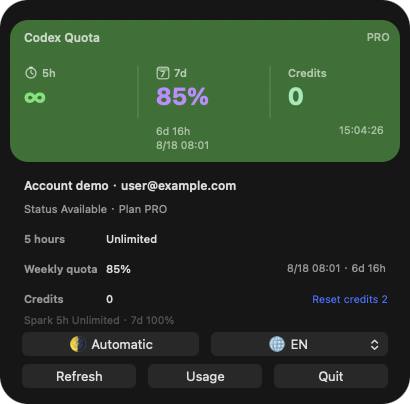
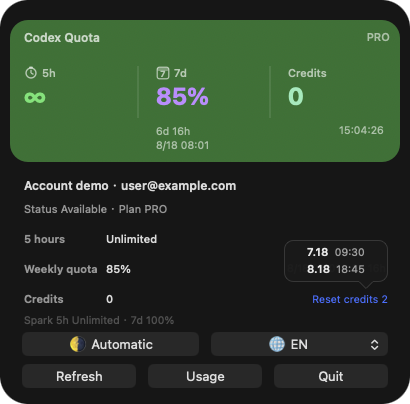
Simplify reset-credit expiration display

Changed region(s): [[0.7024, 0.5941, 0.9659, 0.6832]]

diff --git a/codex-balance/Sources/CodexBalance/main.swift b/codex-balance/Sources/CodexBalance/main.swift
@@ -2156,10 +2156,34 @@ final class ThemePanelView: NSView {
 }
 
 final class ResetCreditsBubbleView: NSView {
+    private struct LineParts {
+        let expirationDate: String
+        let expirationTime: String?
+    }
+
+    private static let minimumWidth: CGFloat = 104
+    private static let maximumWidth: CGFloat = 160
+    private static let horizontalTextPadding: CGFloat = 24
+
     private let summary: CodexUsageSummary
     private let panelLight: Bool
     private let arrowTipX: CGFloat
     private let arrowHeight: CGFloat = 7
+
+    fileprivate static func preferredWidth(for summary: CodexUsageSummary) -> CGFloat {
+        let dateFont = NSFont.systemFont(ofSize: 11, weight: .semibold)
+        let timeFont = NSFont.systemFont(ofSize: 10.5, weight: .regular)
+        let widestLine = lineParts(for: summary)
+            .map { line in
+                let dateWidth = (line.expirationDate as NSString).size(withAttributes: [.font: dateFont]).width
+                let timeWidth = line.expirationTime.map {
+                    (("  " + $0) as NSString).size(withAttributes: [.font: timeFont]).width
+                } ?? 0
+                return ceil(dateWidth + timeWidth)
+            }
+            .max() ?? 0
+        return min(maximumWidth, max(minimumWidth, widestLine + horizontalTextPadding))
+    }
 
     init(frame frameRect: NSRect, summary: CodexUsageSummary, panelLight: Bool, arrowTipX: CGFloat) {
         self.summary = summary
@@ -2228,35 +2252,79 @@ final class ResetCreditsBubbleView: NSView {
     }
 
     private func addDateLines() {
-        let credits = summary.resetCredits.isEmpty ? [] : Array(summary.resetCredits.prefix(5))
-        let textColor = panelLight ? NSColor(calibratedWhite: 0.16, alpha: 0.82) : NSColor.white.withAlphaComponent(0.88)
-        let lines = credits.isEmpty ? [L10n.shared.t("unknown")] : credits.map { "\(dateText($0.grantedAt)) - \(dateText($0.expiresAt))" }
+        let lines = Self.lineParts(for: summary)
         let lineHeight: CGFloat = 15
         let lineGap: CGFloat = 2
         let bodyHeight = bounds.height - arrowHeight
         let totalLineHeight = CGFloat(lines.count) * lineHeight + CGFloat(max(0, lines.count - 1)) * lineGap
         let firstLineY = arrowHeight + max(0, (bodyHeight - totalLineHeight) / 2)
         for (index, line) in lines.enumerated() {
-            let field = NSTextField(labelWithString: line)
+            let field = NSTextField(labelWithString: "")
             field.frame = NSRect(
                 x: 10,
                 y: firstLineY + CGFloat(lines.count - 1 - index) * (lineHeight + lineGap),
                 width: bounds.width - 20,
                 height: lineHeight
             )
-            field.font = .systemFont(ofSize: 11, weight: .semibold)
-            field.textColor = textColor
+            field.attributedStringValue = Self.attributedLine(line, panelLight: panelLight)
             field.alignment = .center
             field.lineBreakMode = .byTruncatingTail
             addSubview(field)
         }
     }
 
-    private func dateText(_ date: Date?) -> String {
+    private static func lineParts(for summary: CodexUsageSummary) -> [LineParts] {
+        let credits = summary.resetCredits.isEmpty ? [] : Array(summary.resetCredits.prefix(5))
+        guard !credits.isEmpty else {
+            return [LineParts(expirationDate: L10n.shared.t("unknown"), expirationTime: nil)]
+        }
+        return credits.map {
+            LineParts(
+                expirationDate: dateText($0.expiresAt),
+                expirationTime: timeText($0.expiresAt)
+            )
+        }
+    }
+
+    private static func attributedLine(_ line: LineParts, panelLight: Bool) -> NSAttributedString {
+        let paragraph = NSMutableParagraphStyle()
+        paragraph.alignment = .center
+        let dateColor = panelLight
+            ? NSColor(calibratedWhite: 0.16, alpha: 0.84)
+            : NSColor.white.withAlphaComponent(0.90)
+        let timeColor = panelLight
+            ? NSColor(calibratedWhite: 0.16, alpha: 0.54)
+            : NSColor.white.withAlphaComponent(0.58)
+        let result = NSMutableAttributedString(string: line.expirationDate, attributes: [
+            .font: NSFont.systemFont(ofSize: 11, weight: .semibold),
+            .foregroundColor: dateColor,
+            .paragraphStyle: paragraph
+        ])
+        if let expirationTime = line.expirationTime {
+            result.append(NSAttributedString(string: "  " + expirationTime, attributes: [
+                .font: NSFont.systemFont(ofSize: 10.5, weight: .regular),
+                .foregroundColor: timeColor,
+                .paragraphStyle: paragraph
+            ]))
+        }
+        return result
+    }
+
+    private static func dateText(_ date: Date?) -> String {
+        formatted(date, format: "M.d")
+    }
+
+    private static func timeText(_ date: Date?) -> String? {
+        guard let date else { return nil }
+        return formatted(date, format: "HH:mm")
+    }
+
+    private static func formatted(_ date: Date?, format: String) -> String {
         guard let date else { return L10n.shared.t("unknown") }
         let formatter = DateFormatter()
         formatter.locale = L10n.shared.locale
-        formatter.dateFormat = "M.d"
+        formatter.timeZone = .autoupdatingCurrent
+        formatter.dateFormat = format
         return formatter.string(from: date)
     }
 }
@@ -2644,13 +2712,13 @@ final class CodexPanelViewController: NSViewController {
     }
 
     private func resetCreditsHint() -> String {
-        L10n.shared.effectiveCode.hasPrefix("zh") ? "查看每张重置券的授权日和截止日期" : "Show each reset credit grant and expiration date"
+        L10n.shared.effectiveCode.hasPrefix("zh") ? "查看每张重置券的到期日期和时间" : "Show each reset credit expiration date and time"
     }
 
     private func addResetCreditsBubble(_ root: NSView, summary: CodexUsageSummary, panelLight: Bool, dismiss: @escaping () -> Void) {
         let lineCount = max(1, min(5, summary.resetCredits.count))
         let triggerFrame = NSRect(x: 232, y: 94, width: 156, height: 20)
-        let bubbleWidth: CGFloat = 122
+        let bubbleWidth = ResetCreditsBubbleView.preferredWidth(for: summary)
         let bubbleHeight = 15 + CGFloat(lineCount * 17)
         let bubbleFrame = NSRect(
             x: triggerFrame.maxX - bubbleWidth,
@@ -3860,13 +3928,13 @@ private func readmeSampleSummary() throws -> CodexUsageSummary {
                 title: "Sample 1",
                 status: "available",
                 grantedAt: try fixedDate("2026-06-18T00:00:00Z"),
-                expiresAt: try fixedDate("2026-07-18T00:00:00Z")
+                expiresAt: try fixedDate("2026-07-18T09:30:00Z")
             ),
             ResetCredit(
                 title: "Sample 2",
                 status: "available",
                 grantedAt: try fixedDate("2026-07-18T00:00:00Z"),
-                expiresAt: try fixedDate("2026-08-18T00:00:00Z")
+                expiresAt: try fixedDate("2026-08-18T18:45:00Z")
             )
         ],
         sparkPrimaryUnlimited: true,
@@ -3955,7 +4023,7 @@ private func renderReadmeSample(popoverURL: URL, statusBarURL: URL?) throws {
         trainStartTime: 0,
         themeMode: .system,
         trainSegmentMask: 0,
-        showResetCreditsDetail: false,
+        showResetCreditsDetail: true,
         dismissResetCredits: {},
         trainClickAction: {},
         animationSettingsAction: { _, _ in }

diff --git a/README.md b/README.md
@@ -85,9 +85,9 @@ Status bar, using the same synthetic quota values as the panel below:
 
 Current English popover layout:
 
-<img src="assets/popover-sample-en.png" alt="Current Codex Balance English popover rendered from the production AppKit view with synthetic data and two reset credits" width="410">
+<img src="assets/popover-sample-en.png" alt="Current Codex Balance English popover rendered from the production AppKit view with a two-row reset-credit expiration bubble" width="410">
 
-These images are rendered directly from the production AppKit views with synthetic account data. They show the current animation-off layout, including an unlimited 5-hour window, weekly quota, two reset credits, theme and language controls, and the three action buttons; they contain no real account information.
+These images are rendered directly from the production AppKit views with synthetic account data. They show the current animation-off layout, including an unlimited 5-hour window, weekly quota, two reset credits with local expiration dates and times, theme and language controls, and the three action buttons; they contain no real account information.
 
 ## Install from a release package
 
@@ -331,9 +331,9 @@ Codex 会把当前登录状态保存在本机，但多账号或 API 中转用户
 
 当前简体中文面板布局：
 
-<img src="assets/popover-sample-zh-Hans.png" alt="由生产 AppKit 界面直接渲染的 Codex Balance 简体中文面板，使用脱敏示例数据并显示两张重置券" width="410">
+<img src="assets/popover-sample-zh-Hans.png" alt="由生产 AppKit 界面直接渲染的 Codex Balance 简体中文面板，显示两行重置券到期日期与时间气泡" width="410">
 
-这些图片由生产 AppKit 界面直接使用伪造账号数据渲染，展示当前默认关闭动画时的真实布局，包括无限 5 小时窗口、周额度、两张重置券、主题与语言控件和三个操作按钮；不包含真实账号信息。
+这些图片由生产 AppKit 界面直接使用伪造账号数据渲染，展示当前默认关闭动画时的真实布局，包括无限 5 小时窗口、周额度、两张重置券及其本机到期日期和时间、主题与语言控件和三个操作按钮；不包含真实账号信息。
 
 ## 安装
 

diff --git a/docs/codex-balance.md b/docs/codex-balance.md
@@ -43,6 +43,7 @@ These `backend-api/wham` URLs are current implementation details without a stabl
 - The menu bar title shows only the 5-hour quota icon and weekly quota icon. A missing 5-hour limit is shown as unlimited instead of reusing the weekly percentage.
 - Quota windows are classified by `limit_window_seconds`, so a weekly-only response remains weekly and a future 5-hour window is restored automatically.
 - For ChatGPT accounts, the popover shows account alias/email, plan, status, 5-hour quota, weekly quota, Credits, Spark remaining quota, reset countdown, and reset time.
+- Clicking the reset-credit count opens a centered bubble with up to five rows. Each row shows only the expiration in the Mac's current time zone as `M.d HH:mm`; clicking elsewhere dismisses the bubble.
 - For API or relay accounts, the popover shows remaining balance or quota, today's cost, total cost, today's tokens, total tokens, and provider/base URL.
 - Refresh and usage-page buttons do not close the popover.
 - Clicking outside the popover closes it.
